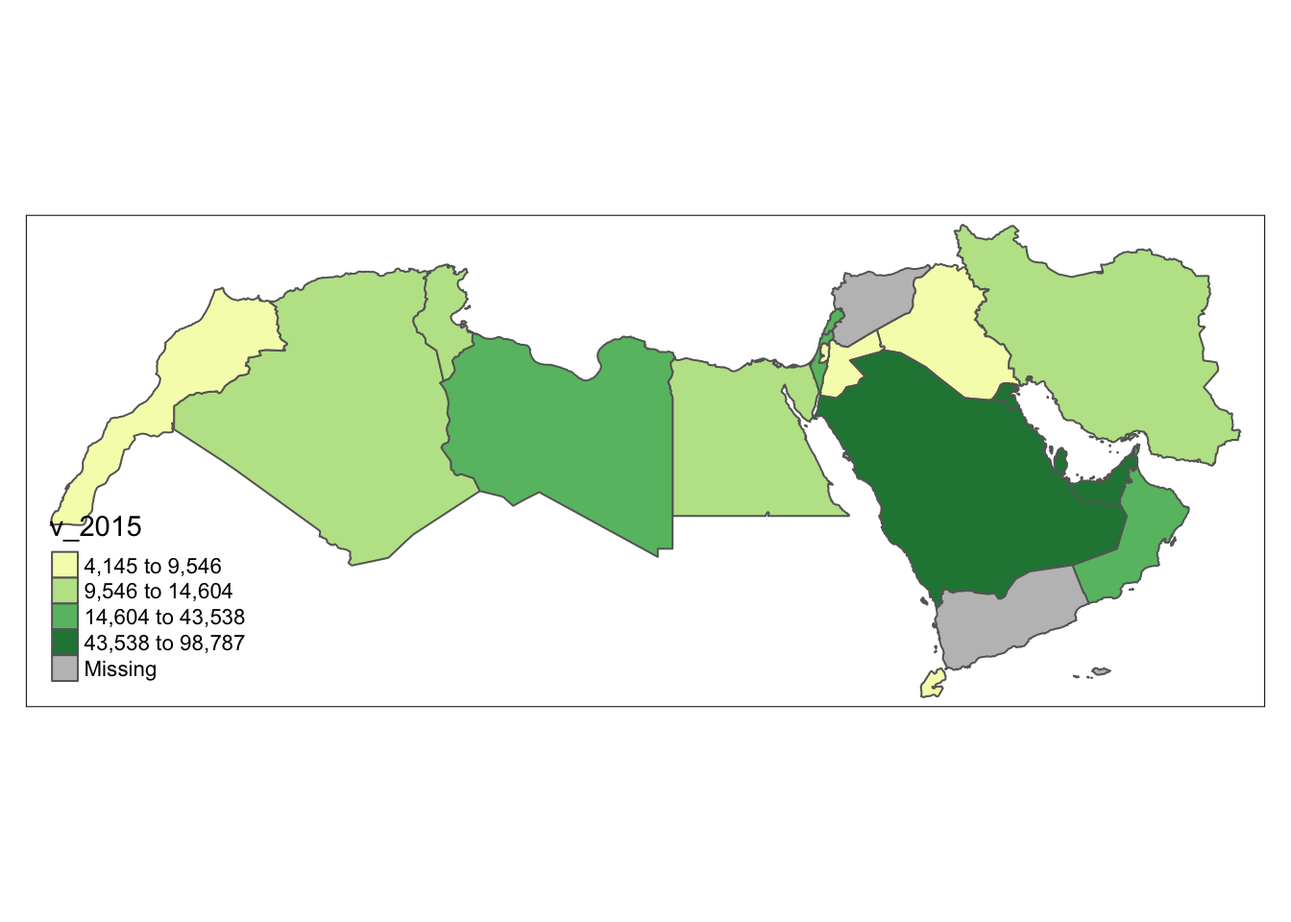
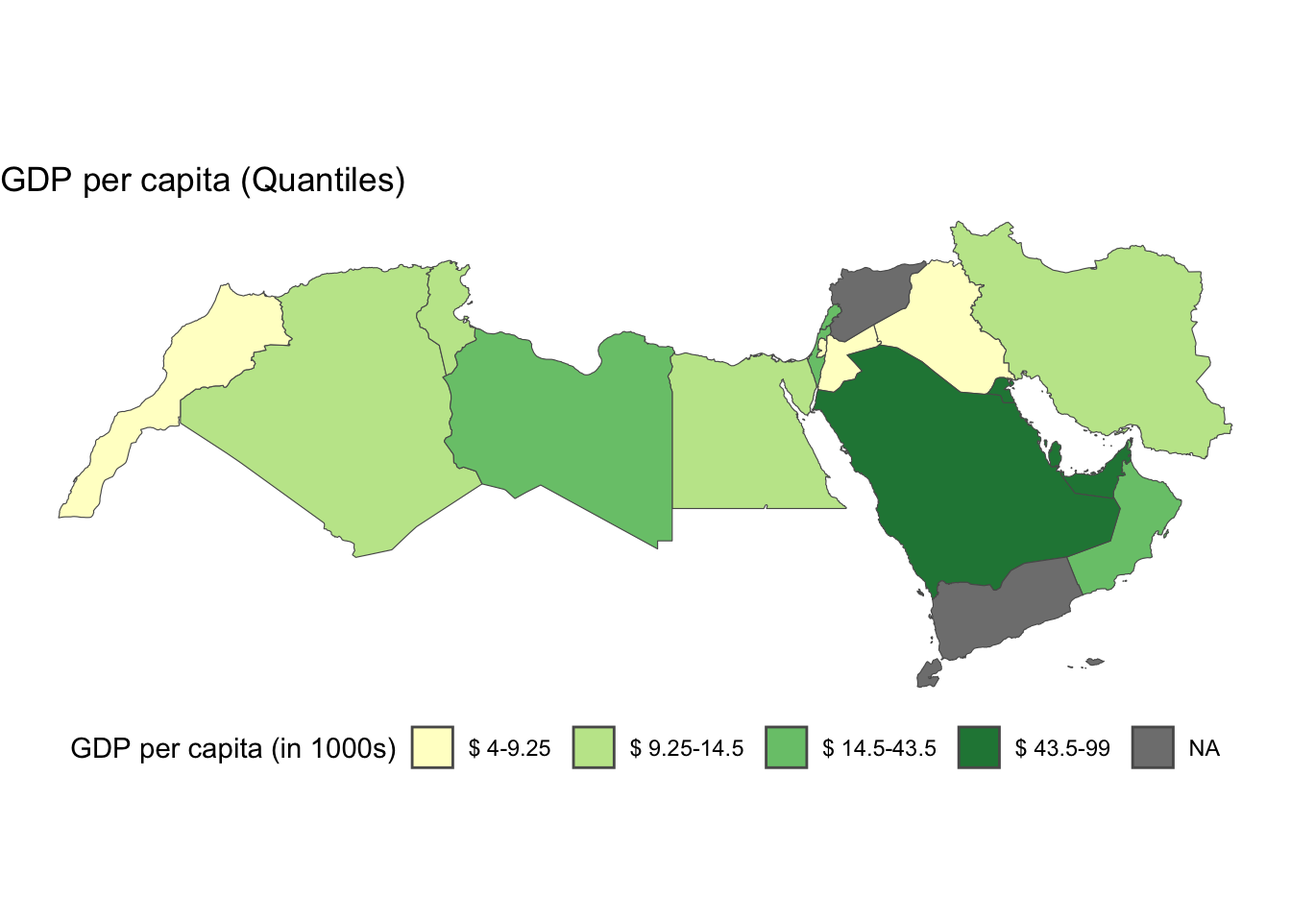
map vector updates

diff --git a/docs/mapvector_code.html b/docs/mapvector_code.html
@@ -781,48 +781,48 @@ Note
 <p>One solution to obtain a more balanced classification scheme is using quantiles. This, by definition, assigns the same amount of values to each bin: the entire series is laid out in order and break points are assigned in a way that leaves exactly the same amount of observations between each of them. This “observation-based” approach contrasts with the “value-based” method of equal intervals and, although it can obscure the magnitude of extreme values, it can be more informative in cases with skewed distributions.</p>
 <p>The code required to create the choropleth mirrors that needed above for equal intervals:</p>
 <div class="panel-tabset" data-group="data">
-<ul class="nav nav-tabs" role="tablist"><li class="nav-item" role="presentation"><a class="nav-link active" id="tabset-3-1-tab" data-bs-toggle="tab" data-bs-target="#tabset-3-1" role="tab" aria-controls="tabset-3-1" aria-selected="true"><code>ggplot</code></a></li><li class="nav-item" role="presentation"><a class="nav-link" id="tabset-3-2-tab" data-bs-toggle="tab" data-bs-target="#tabset-3-2" role="tab" aria-controls="tabset-3-2" aria-selected="false"><code>tmap</code></a></li></ul>
+<ul class="nav nav-tabs" role="tablist"><li class="nav-item" role="presentation"><a class="nav-link active" id="tabset-3-1-tab" data-bs-toggle="tab" data-bs-target="#tabset-3-1" role="tab" aria-controls="tabset-3-1" aria-selected="true"><code>tmap</code></a></li><li class="nav-item" role="presentation"><a class="nav-link" id="tabset-3-2-tab" data-bs-toggle="tab" data-bs-target="#tabset-3-2" role="tab" aria-controls="tabset-3-2" aria-selected="false"><code>ggplot</code></a></li></ul>
 <div class="tab-content" data-group="data">
 <div id="tabset-3-1" class="tab-pane active" role="tabpanel" aria-labelledby="tabset-3-1-tab">
-<p>As before, first we create the intervals, in this case quantiles.</p>
+<p>As in our previous example, the coding is a bit simpler if we use <code>tmap</code>.</p>
 <div class="cell">
-<div class="sourceCode cell-code" id="cb20"><pre class="sourceCode r code-with-copy"><code class="sourceCode r"><span id="cb20-1"><a href="#cb20-1" aria-hidden="true" tabindex="-1"></a><span class="co"># Find quantile breaks for data segmentation into four groups.</span></span>
-<span id="cb20-2"><a href="#cb20-2" aria-hidden="true" tabindex="-1"></a>qt_breaks <span class="ot">&lt;-</span> <span class="fu">classIntervals</span>(world_dev_filtered<span class="sc">$</span>v_2015bis, <span class="at">n =</span> <span class="dv">4</span>, <span class="at">style =</span> <span class="st">"quantile"</span>)</span>
-<span id="cb20-3"><a href="#cb20-3" aria-hidden="true" tabindex="-1"></a></span>
-<span id="cb20-4"><a href="#cb20-4" aria-hidden="true" tabindex="-1"></a><span class="co"># Assign the class breaks to the data</span></span>
-<span id="cb20-5"><a href="#cb20-5" aria-hidden="true" tabindex="-1"></a>world_dev_filtered<span class="sc">$</span>qt_breaks <span class="ot">&lt;-</span> <span class="fu">cut</span>(world_dev_filtered<span class="sc">$</span>v_2015bis, qt_breaks<span class="sc">$</span>brks)</span></code><button title="Copy to Clipboard" class="code-copy-button"><i class="bi"></i></button></pre></div>
-</div>
-<p>Then we map the data:</p>
-<div class="cell">
-<div class="sourceCode cell-code" id="cb21"><pre class="sourceCode r code-with-copy"><code class="sourceCode r"><span id="cb21-1"><a href="#cb21-1" aria-hidden="true" tabindex="-1"></a>num_bins <span class="ot">&lt;-</span><span class="dv">4</span></span>
-<span id="cb21-2"><a href="#cb21-2" aria-hidden="true" tabindex="-1"></a><span class="co"># Define a color palette for visualizing data.</span></span>
-<span id="cb21-3"><a href="#cb21-3" aria-hidden="true" tabindex="-1"></a>cmap <span class="ot">&lt;-</span> <span class="fu">brewer.pal</span>(num_bins, <span class="st">"YlGn"</span>)</span>
-<span id="cb21-4"><a href="#cb21-4" aria-hidden="true" tabindex="-1"></a></span>
-<span id="cb21-5"><a href="#cb21-5" aria-hidden="true" tabindex="-1"></a><span class="co"># plot</span></span>
-<span id="cb21-6"><a href="#cb21-6" aria-hidden="true" tabindex="-1"></a><span class="fu">ggplot</span>() <span class="sc">+</span></span>
-<span id="cb21-7"><a href="#cb21-7" aria-hidden="true" tabindex="-1"></a>  <span class="fu">geom_sf</span>(<span class="at">data =</span> world_dev_filtered, <span class="fu">aes</span>(<span class="at">fill =</span> qt_breaks)) <span class="sc">+</span></span>
-<span id="cb21-8"><a href="#cb21-8" aria-hidden="true" tabindex="-1"></a><span class="fu">theme_void</span>() <span class="sc">+</span> <span class="co"># remove x and y axis</span></span>
-<span id="cb21-9"><a href="#cb21-9" aria-hidden="true" tabindex="-1"></a>  <span class="fu">scale_fill_manual</span>(</span>
-<span id="cb21-10"><a href="#cb21-10" aria-hidden="true" tabindex="-1"></a>    <span class="at">values =</span> cmap,</span>
-<span id="cb21-11"><a href="#cb21-11" aria-hidden="true" tabindex="-1"></a>    <span class="at">name =</span> <span class="st">"GDP per capita (in 1000s)"</span>,  <span class="co"># Improved legend title</span></span>
-<span id="cb21-12"><a href="#cb21-12" aria-hidden="true" tabindex="-1"></a>    <span class="at">labels =</span> <span class="fu">gsub</span>(<span class="st">"[,]"</span>, <span class="st">"-"</span>, <span class="fu">paste0</span>(<span class="st">"$"</span>, <span class="fu">gsub</span>(<span class="st">"[</span><span class="sc">\\</span><span class="st">[</span><span class="sc">\\</span><span class="st">]()]"</span>, <span class="st">" "</span>, <span class="fu">levels</span>(world_dev_filtered<span class="sc">$</span>qt_breaks), <span class="at">perl =</span> <span class="cn">TRUE</span>)))) <span class="sc">+</span>  <span class="co"># Replace comma with hyphen, add dollar sign, and remove brackets/parentheses from labels </span></span>
-<span id="cb21-13"><a href="#cb21-13" aria-hidden="true" tabindex="-1"></a>  <span class="fu">labs</span>(</span>
-<span id="cb21-14"><a href="#cb21-14" aria-hidden="true" tabindex="-1"></a>    <span class="at">title =</span> <span class="st">"GDP per capita (Quantiles)"</span>,</span>
-<span id="cb21-15"><a href="#cb21-15" aria-hidden="true" tabindex="-1"></a>    <span class="at">fill =</span> <span class="cn">NULL</span>  <span class="co"># Remove the fill label</span></span>
-<span id="cb21-16"><a href="#cb21-16" aria-hidden="true" tabindex="-1"></a>  ) <span class="sc">+</span></span>
-<span id="cb21-17"><a href="#cb21-17" aria-hidden="true" tabindex="-1"></a>  <span class="fu">theme_void</span>() <span class="sc">+</span></span>
-<span id="cb21-18"><a href="#cb21-18" aria-hidden="true" tabindex="-1"></a>  <span class="fu">theme</span>(<span class="at">legend.position =</span> <span class="st">"bottom"</span>)</span></code><button title="Copy to Clipboard" class="code-copy-button"><i class="bi"></i></button></pre></div>
+<div class="sourceCode cell-code" id="cb20"><pre class="sourceCode r code-with-copy"><code class="sourceCode r"><span id="cb20-1"><a href="#cb20-1" aria-hidden="true" tabindex="-1"></a><span class="fu">tm_basemap</span>() <span class="sc">+</span></span>
+<span id="cb20-2"><a href="#cb20-2" aria-hidden="true" tabindex="-1"></a>  <span class="fu">tm_shape</span>(world_dev_filtered) <span class="sc">+</span></span>
+<span id="cb20-3"><a href="#cb20-3" aria-hidden="true" tabindex="-1"></a>  <span class="fu">tm_polygons</span>(<span class="st">"v_2015"</span>, <span class="at">palette =</span> <span class="st">"YlGn"</span>, <span class="at">id =</span> <span class="st">"WARD_NAME"</span>, <span class="at">n =</span> <span class="dv">4</span>, <span class="at">style=</span> <span class="st">"quantile"</span>)   </span></code><button title="Copy to Clipboard" class="code-copy-button"><i class="bi"></i></button></pre></div>
 <div class="cell-output-display">
-<p><img src="mapvector_code_files/figure-html/unnamed-chunk-15-1.png" class="img-fluid" width="672"></p>
+<p><img src="mapvector_code_files/figure-html/unnamed-chunk-14-1.png" class="img-fluid" width="672"></p>
 </div>
 </div>
 </div>
 <div id="tabset-3-2" class="tab-pane" role="tabpanel" aria-labelledby="tabset-3-2-tab">
-<p>As in our previous example, the coding is a bit simpler if we use <code>tmap</code>.</p>
+<p>As before, first we create the intervals, in this case quantiles.</p>
 <div class="cell">
-<div class="sourceCode cell-code" id="cb22"><pre class="sourceCode r code-with-copy"><code class="sourceCode r"><span id="cb22-1"><a href="#cb22-1" aria-hidden="true" tabindex="-1"></a><span class="fu">tm_basemap</span>() <span class="sc">+</span></span>
-<span id="cb22-2"><a href="#cb22-2" aria-hidden="true" tabindex="-1"></a>  <span class="fu">tm_shape</span>(world_dev_filtered) <span class="sc">+</span></span>
-<span id="cb22-3"><a href="#cb22-3" aria-hidden="true" tabindex="-1"></a>  <span class="fu">tm_polygons</span>(<span class="st">"v_2015"</span>, <span class="at">palette =</span> <span class="st">"YlGn"</span>, <span class="at">id =</span> <span class="st">"WARD_NAME"</span>, <span class="at">n =</span> <span class="dv">4</span>, <span class="at">style=</span> <span class="st">"quantile"</span>)   </span></code><button title="Copy to Clipboard" class="code-copy-button"><i class="bi"></i></button></pre></div>
+<div class="sourceCode cell-code" id="cb21"><pre class="sourceCode r code-with-copy"><code class="sourceCode r"><span id="cb21-1"><a href="#cb21-1" aria-hidden="true" tabindex="-1"></a><span class="co"># Find quantile breaks for data segmentation into four groups.</span></span>
+<span id="cb21-2"><a href="#cb21-2" aria-hidden="true" tabindex="-1"></a>qt_breaks <span class="ot">&lt;-</span> <span class="fu">classIntervals</span>(world_dev_filtered<span class="sc">$</span>v_2015bis, <span class="at">n =</span> <span class="dv">4</span>, <span class="at">style =</span> <span class="st">"quantile"</span>)</span>
+<span id="cb21-3"><a href="#cb21-3" aria-hidden="true" tabindex="-1"></a></span>
+<span id="cb21-4"><a href="#cb21-4" aria-hidden="true" tabindex="-1"></a><span class="co"># Assign the class breaks to the data</span></span>
+<span id="cb21-5"><a href="#cb21-5" aria-hidden="true" tabindex="-1"></a>world_dev_filtered<span class="sc">$</span>qt_breaks <span class="ot">&lt;-</span> <span class="fu">cut</span>(world_dev_filtered<span class="sc">$</span>v_2015bis, qt_breaks<span class="sc">$</span>brks)</span></code><button title="Copy to Clipboard" class="code-copy-button"><i class="bi"></i></button></pre></div>
+</div>
+<p>Then we map the data:</p>
+<div class="cell">
+<div class="sourceCode cell-code" id="cb22"><pre class="sourceCode r code-with-copy"><code class="sourceCode r"><span id="cb22-1"><a href="#cb22-1" aria-hidden="true" tabindex="-1"></a>num_bins <span class="ot">&lt;-</span><span class="dv">4</span></span>
+<span id="cb22-2"><a href="#cb22-2" aria-hidden="true" tabindex="-1"></a><span class="co"># Define a color palette for visualizing data.</span></span>
+<span id="cb22-3"><a href="#cb22-3" aria-hidden="true" tabindex="-1"></a>cmap <span class="ot">&lt;-</span> <span class="fu">brewer.pal</span>(num_bins, <span class="st">"YlGn"</span>)</span>
+<span id="cb22-4"><a href="#cb22-4" aria-hidden="true" tabindex="-1"></a></span>
+<span id="cb22-5"><a href="#cb22-5" aria-hidden="true" tabindex="-1"></a><span class="co"># plot</span></span>
+<span id="cb22-6"><a href="#cb22-6" aria-hidden="true" tabindex="-1"></a><span class="fu">ggplot</span>() <span class="sc">+</span></span>
+<span id="cb22-7"><a href="#cb22-7" aria-hidden="true" tabindex="-1"></a>  <span class="fu">geom_sf</span>(<span class="at">data =</span> world_dev_filtered, <span class="fu">aes</span>(<span class="at">fill =</span> qt_breaks)) <span class="sc">+</span></span>
+<span id="cb22-8"><a href="#cb22-8" aria-hidden="true" tabindex="-1"></a><span class="fu">theme_void</span>() <span class="sc">+</span> <span class="co"># remove x and y axis</span></span>
+<span id="cb22-9"><a href="#cb22-9" aria-hidden="true" tabindex="-1"></a>  <span class="fu">scale_fill_manual</span>(</span>
+<span id="cb22-10"><a href="#cb22-10" aria-hidden="true" tabindex="-1"></a>    <span class="at">values =</span> cmap,</span>
+<span id="cb22-11"><a href="#cb22-11" aria-hidden="true" tabindex="-1"></a>    <span class="at">name =</span> <span class="st">"GDP per capita (in 1000s)"</span>,  <span class="co"># Improved legend title</span></span>
+<span id="cb22-12"><a href="#cb22-12" aria-hidden="true" tabindex="-1"></a>    <span class="at">labels =</span> <span class="fu">gsub</span>(<span class="st">"[,]"</span>, <span class="st">"-"</span>, <span class="fu">paste0</span>(<span class="st">"$"</span>, <span class="fu">gsub</span>(<span class="st">"[</span><span class="sc">\\</span><span class="st">[</span><span class="sc">\\</span><span class="st">]()]"</span>, <span class="st">" "</span>, <span class="fu">levels</span>(world_dev_filtered<span class="sc">$</span>qt_breaks), <span class="at">perl =</span> <span class="cn">TRUE</span>)))) <span class="sc">+</span>  <span class="co"># Replace comma with hyphen, add dollar sign, and remove brackets/parentheses from labels </span></span>
+<span id="cb22-13"><a href="#cb22-13" aria-hidden="true" tabindex="-1"></a>  <span class="fu">labs</span>(</span>
+<span id="cb22-14"><a href="#cb22-14" aria-hidden="true" tabindex="-1"></a>    <span class="at">title =</span> <span class="st">"GDP per capita (Quantiles)"</span>,</span>
+<span id="cb22-15"><a href="#cb22-15" aria-hidden="true" tabindex="-1"></a>    <span class="at">fill =</span> <span class="cn">NULL</span>  <span class="co"># Remove the fill label</span></span>
+<span id="cb22-16"><a href="#cb22-16" aria-hidden="true" tabindex="-1"></a>  ) <span class="sc">+</span></span>
+<span id="cb22-17"><a href="#cb22-17" aria-hidden="true" tabindex="-1"></a>  <span class="fu">theme_void</span>() <span class="sc">+</span></span>
+<span id="cb22-18"><a href="#cb22-18" aria-hidden="true" tabindex="-1"></a>  <span class="fu">theme</span>(<span class="at">legend.position =</span> <span class="st">"bottom"</span>)</span></code><button title="Copy to Clipboard" class="code-copy-button"><i class="bi"></i></button></pre></div>
 <div class="cell-output-display">
 <p><img src="mapvector_code_files/figure-html/unnamed-chunk-16-1.png" class="img-fluid" width="672"></p>
 </div>
@@ -859,48 +859,48 @@ Note
 <h2 class="anchored" data-anchor-id="fisher-jenks">Fisher-Jenks</h2>
 <p>Equal interval and quantiles are only two examples of very many classification schemes to encode values into colors. As an example of a more sophisticated one, let us create a Fisher-Jenks choropleth:</p>
 <div class="panel-tabset" data-group="data">
-<ul class="nav nav-tabs" role="tablist"><li class="nav-item" role="presentation"><a class="nav-link active" id="tabset-4-1-tab" data-bs-toggle="tab" data-bs-target="#tabset-4-1" role="tab" aria-controls="tabset-4-1" aria-selected="true"><code>ggplot</code></a></li><li class="nav-item" role="presentation"><a class="nav-link" id="tabset-4-2-tab" data-bs-toggle="tab" data-bs-target="#tabset-4-2" role="tab" aria-controls="tabset-4-2" aria-selected="false"><code>tmap</code></a></li></ul>
+<ul class="nav nav-tabs" role="tablist"><li class="nav-item" role="presentation"><a class="nav-link active" id="tabset-4-1-tab" data-bs-toggle="tab" data-bs-target="#tabset-4-1" role="tab" aria-controls="tabset-4-1" aria-selected="true"><code>tmap</code></a></li><li class="nav-item" role="presentation"><a class="nav-link" id="tabset-4-2-tab" data-bs-toggle="tab" data-bs-target="#tabset-4-2" role="tab" aria-controls="tabset-4-2" aria-selected="false"><code>ggplot</code></a></li></ul>
 <div class="tab-content" data-group="data">
 <div id="tabset-4-1" class="tab-pane active" role="tabpanel" aria-labelledby="tabset-4-1-tab">
-<p>As before, first we create the intervals, in this case fisher jenks</p>
+<p>As in our previous example, the coding is a bit simpler if we use <code>tmap</code>.</p>
 <div class="cell">
-<div class="sourceCode cell-code" id="cb24"><pre class="sourceCode r code-with-copy"><code class="sourceCode r"><span id="cb24-1"><a href="#cb24-1" aria-hidden="true" tabindex="-1"></a><span class="co"># Find fisher breaks for data segmentation into 5 groups.</span></span>
-<span id="cb24-2"><a href="#cb24-2" aria-hidden="true" tabindex="-1"></a>fish_breaks <span class="ot">&lt;-</span> <span class="fu">classIntervals</span>(world_dev_filtered<span class="sc">$</span>v_2015bis, <span class="at">n =</span> <span class="dv">4</span>, <span class="at">style =</span> <span class="st">"fisher"</span>)</span>
-<span id="cb24-3"><a href="#cb24-3" aria-hidden="true" tabindex="-1"></a></span>
-<span id="cb24-4"><a href="#cb24-4" aria-hidden="true" tabindex="-1"></a><span class="co"># Assign the class breaks to the data</span></span>
-<span id="cb24-5"><a href="#cb24-5" aria-hidden="true" tabindex="-1"></a>world_dev_filtered<span class="sc">$</span>fish_breaks <span class="ot">&lt;-</span> <span class="fu">cut</span>(world_dev_filtered<span class="sc">$</span>v_2015bis, fish_breaks<span class="sc">$</span>brks)</span></code><button title="Copy to Clipboard" class="code-copy-button"><i class="bi"></i></button></pre></div>
-</div>
-<p>Then we map the data:</p>
-<div class="cell">
-<div class="sourceCode cell-code" id="cb25"><pre class="sourceCode r code-with-copy"><code class="sourceCode r"><span id="cb25-1"><a href="#cb25-1" aria-hidden="true" tabindex="-1"></a>num_bins <span class="ot">&lt;-</span><span class="dv">4</span></span>
-<span id="cb25-2"><a href="#cb25-2" aria-hidden="true" tabindex="-1"></a><span class="co"># Define a color palette for visualizing data.</span></span>
-<span id="cb25-3"><a href="#cb25-3" aria-hidden="true" tabindex="-1"></a>cmap <span class="ot">&lt;-</span> <span class="fu">brewer.pal</span>(num_bins, <span class="st">"YlGn"</span>)</span>
-<span id="cb25-4"><a href="#cb25-4" aria-hidden="true" tabindex="-1"></a></span>
-<span id="cb25-5"><a href="#cb25-5" aria-hidden="true" tabindex="-1"></a><span class="co"># plot</span></span>
-<span id="cb25-6"><a href="#cb25-6" aria-hidden="true" tabindex="-1"></a><span class="fu">ggplot</span>() <span class="sc">+</span></span>
-<span id="cb25-7"><a href="#cb25-7" aria-hidden="true" tabindex="-1"></a>  <span class="fu">geom_sf</span>(<span class="at">data =</span> world_dev_filtered, <span class="fu">aes</span>(<span class="at">fill =</span> fish_breaks)) <span class="sc">+</span></span>
-<span id="cb25-8"><a href="#cb25-8" aria-hidden="true" tabindex="-1"></a><span class="fu">theme_void</span>() <span class="sc">+</span> <span class="co"># remove x and y axis</span></span>
-<span id="cb25-9"><a href="#cb25-9" aria-hidden="true" tabindex="-1"></a>  <span class="fu">scale_fill_manual</span>(</span>
-<span id="cb25-10"><a href="#cb25-10" aria-hidden="true" tabindex="-1"></a>    <span class="at">values =</span> cmap,</span>
-<span id="cb25-11"><a href="#cb25-11" aria-hidden="true" tabindex="-1"></a>    <span class="at">name =</span> <span class="st">"GDP per capita (in 1000s)"</span>,  <span class="co"># Improved legend title</span></span>
-<span id="cb25-12"><a href="#cb25-12" aria-hidden="true" tabindex="-1"></a>    <span class="at">labels =</span> <span class="fu">gsub</span>(<span class="st">"[,]"</span>, <span class="st">"-"</span>, <span class="fu">paste0</span>(<span class="st">"$"</span>, <span class="fu">gsub</span>(<span class="st">"[</span><span class="sc">\\</span><span class="st">[</span><span class="sc">\\</span><span class="st">]()]"</span>, <span class="st">" "</span>, <span class="fu">levels</span>(world_dev_filtered<span class="sc">$</span>fish_breaks), <span class="at">perl =</span> <span class="cn">TRUE</span>)))) <span class="sc">+</span>  <span class="co"># Replace comma with hyphen, add dollar sign, and remove brackets/parentheses from labels </span></span>
-<span id="cb25-13"><a href="#cb25-13" aria-hidden="true" tabindex="-1"></a>  <span class="fu">labs</span>(</span>
-<span id="cb25-14"><a href="#cb25-14" aria-hidden="true" tabindex="-1"></a>    <span class="at">title =</span> <span class="st">"GDP per capita (Quantiles)"</span>,</span>
-<span id="cb25-15"><a href="#cb25-15" aria-hidden="true" tabindex="-1"></a>    <span class="at">fill =</span> <span class="cn">NULL</span>  <span class="co"># Remove the fill label</span></span>
-<span id="cb25-16"><a href="#cb25-16" aria-hidden="true" tabindex="-1"></a>  ) <span class="sc">+</span></span>
-<span id="cb25-17"><a href="#cb25-17" aria-hidden="true" tabindex="-1"></a>  <span class="fu">theme_void</span>() <span class="sc">+</span></span>
-<span id="cb25-18"><a href="#cb25-18" aria-hidden="true" tabindex="-1"></a>  <span class="fu">theme</span>(<span class="at">legend.position =</span> <span class="st">"bottom"</span>)</span></code><button title="Copy to Clipboard" class="code-copy-button"><i class="bi"></i></button></pre></div>
+<div class="sourceCode cell-code" id="cb24"><pre class="sourceCode r code-with-copy"><code class="sourceCode r"><span id="cb24-1"><a href="#cb24-1" aria-hidden="true" tabindex="-1"></a><span class="fu">tm_basemap</span>() <span class="sc">+</span></span>
+<span id="cb24-2"><a href="#cb24-2" aria-hidden="true" tabindex="-1"></a>  <span class="fu">tm_shape</span>(world_dev_filtered) <span class="sc">+</span></span>
+<span id="cb24-3"><a href="#cb24-3" aria-hidden="true" tabindex="-1"></a>  <span class="fu">tm_polygons</span>(<span class="st">"v_2015"</span>, <span class="at">palette =</span> <span class="st">"YlGn"</span>, <span class="at">id =</span> <span class="st">"WARD_NAME"</span>, <span class="at">n =</span> <span class="dv">4</span>, <span class="at">style=</span> <span class="st">"fisher"</span>)   </span></code><button title="Copy to Clipboard" class="code-copy-button"><i class="bi"></i></button></pre></div>
 <div class="cell-output-display">
-<p><img src="mapvector_code_files/figure-html/unnamed-chunk-19-1.png" class="img-fluid" width="672"></p>
+<p><img src="mapvector_code_files/figure-html/unnamed-chunk-18-1.png" class="img-fluid" width="672"></p>
 </div>
 </div>
 </div>
 <div id="tabset-4-2" class="tab-pane" role="tabpanel" aria-labelledby="tabset-4-2-tab">
-<p>As in our previous example, the coding is a bit simpler if we use <code>tmap</code>.</p>
+<p>As before, first we create the intervals, in this case fisher jenks</p>
 <div class="cell">
-<div class="sourceCode cell-code" id="cb26"><pre class="sourceCode r code-with-copy"><code class="sourceCode r"><span id="cb26-1"><a href="#cb26-1" aria-hidden="true" tabindex="-1"></a><span class="fu">tm_basemap</span>() <span class="sc">+</span></span>
-<span id="cb26-2"><a href="#cb26-2" aria-hidden="true" tabindex="-1"></a>  <span class="fu">tm_shape</span>(world_dev_filtered) <span class="sc">+</span></span>
-<span id="cb26-3"><a href="#cb26-3" aria-hidden="true" tabindex="-1"></a>  <span class="fu">tm_polygons</span>(<span class="st">"v_2015"</span>, <span class="at">palette =</span> <span class="st">"YlGn"</span>, <span class="at">id =</span> <span class="st">"WARD_NAME"</span>, <span class="at">n =</span> <span class="dv">4</span>, <span class="at">style=</span> <span class="st">"fisher"</span>)   </span></code><button title="Copy to Clipboard" class="code-copy-button"><i class="bi"></i></button></pre></div>
+<div class="sourceCode cell-code" id="cb25"><pre class="sourceCode r code-with-copy"><code class="sourceCode r"><span id="cb25-1"><a href="#cb25-1" aria-hidden="true" tabindex="-1"></a><span class="co"># Find fisher breaks for data segmentation into 5 groups.</span></span>
+<span id="cb25-2"><a href="#cb25-2" aria-hidden="true" tabindex="-1"></a>fish_breaks <span class="ot">&lt;-</span> <span class="fu">classIntervals</span>(world_dev_filtered<span class="sc">$</span>v_2015bis, <span class="at">n =</span> <span class="dv">4</span>, <span class="at">style =</span> <span class="st">"fisher"</span>)</span>
+<span id="cb25-3"><a href="#cb25-3" aria-hidden="true" tabindex="-1"></a></span>
+<span id="cb25-4"><a href="#cb25-4" aria-hidden="true" tabindex="-1"></a><span class="co"># Assign the class breaks to the data</span></span>
+<span id="cb25-5"><a href="#cb25-5" aria-hidden="true" tabindex="-1"></a>world_dev_filtered<span class="sc">$</span>fish_breaks <span class="ot">&lt;-</span> <span class="fu">cut</span>(world_dev_filtered<span class="sc">$</span>v_2015bis, fish_breaks<span class="sc">$</span>brks)</span></code><button title="Copy to Clipboard" class="code-copy-button"><i class="bi"></i></button></pre></div>
+</div>
+<p>Then we map the data:</p>
+<div class="cell">
+<div class="sourceCode cell-code" id="cb26"><pre class="sourceCode r code-with-copy"><code class="sourceCode r"><span id="cb26-1"><a href="#cb26-1" aria-hidden="true" tabindex="-1"></a>num_bins <span class="ot">&lt;-</span><span class="dv">4</span></span>
+<span id="cb26-2"><a href="#cb26-2" aria-hidden="true" tabindex="-1"></a><span class="co"># Define a color palette for visualizing data.</span></span>
+<span id="cb26-3"><a href="#cb26-3" aria-hidden="true" tabindex="-1"></a>cmap <span class="ot">&lt;-</span> <span class="fu">brewer.pal</span>(num_bins, <span class="st">"YlGn"</span>)</span>
+<span id="cb26-4"><a href="#cb26-4" aria-hidden="true" tabindex="-1"></a></span>
+<span id="cb26-5"><a href="#cb26-5" aria-hidden="true" tabindex="-1"></a><span class="co"># plot</span></span>
+<span id="cb26-6"><a href="#cb26-6" aria-hidden="true" tabindex="-1"></a><span class="fu">ggplot</span>() <span class="sc">+</span></span>
+<span id="cb26-7"><a href="#cb26-7" aria-hidden="true" tabindex="-1"></a>  <span class="fu">geom_sf</span>(<span class="at">data =</span> world_dev_filtered, <span class="fu">aes</span>(<span class="at">fill =</span> fish_breaks)) <span class="sc">+</span></span>
+<span id="cb26-8"><a href="#cb26-8" aria-hidden="true" tabindex="-1"></a><span class="fu">theme_void</span>() <span class="sc">+</span> <span class="co"># remove x and y axis</span></span>
+<span id="cb26-9"><a href="#cb26-9" aria-hidden="true" tabindex="-1"></a>  <span class="fu">scale_fill_manual</span>(</span>
+<span id="cb26-10"><a href="#cb26-10" aria-hidden="true" tabindex="-1"></a>    <span class="at">values =</span> cmap,</span>
+<span id="cb26-11"><a href="#cb26-11" aria-hidden="true" tabindex="-1"></a>    <span class="at">name =</span> <span class="st">"GDP per capita (in 1000s)"</span>,  <span class="co"># Improved legend title</span></span>
+<span id="cb26-12"><a href="#cb26-12" aria-hidden="true" tabindex="-1"></a>    <span class="at">labels =</span> <span class="fu">gsub</span>(<span class="st">"[,]"</span>, <span class="st">"-"</span>, <span class="fu">paste0</span>(<span class="st">"$"</span>, <span class="fu">gsub</span>(<span class="st">"[</span><span class="sc">\\</span><span class="st">[</span><span class="sc">\\</span><span class="st">]()]"</span>, <span class="st">" "</span>, <span class="fu">levels</span>(world_dev_filtered<span class="sc">$</span>fish_breaks), <span class="at">perl =</span> <span class="cn">TRUE</span>)))) <span class="sc">+</span>  <span class="co"># Replace comma with hyphen, add dollar sign, and remove brackets/parentheses from labels </span></span>
+<span id="cb26-13"><a href="#cb26-13" aria-hidden="true" tabindex="-1"></a>  <span class="fu">labs</span>(</span>
+<span id="cb26-14"><a href="#cb26-14" aria-hidden="true" tabindex="-1"></a>    <span class="at">title =</span> <span class="st">"GDP per capita (Quantiles)"</span>,</span>
+<span id="cb26-15"><a href="#cb26-15" aria-hidden="true" tabindex="-1"></a>    <span class="at">fill =</span> <span class="cn">NULL</span>  <span class="co"># Remove the fill label</span></span>
+<span id="cb26-16"><a href="#cb26-16" aria-hidden="true" tabindex="-1"></a>  ) <span class="sc">+</span></span>
+<span id="cb26-17"><a href="#cb26-17" aria-hidden="true" tabindex="-1"></a>  <span class="fu">theme_void</span>() <span class="sc">+</span></span>
+<span id="cb26-18"><a href="#cb26-18" aria-hidden="true" tabindex="-1"></a>  <span class="fu">theme</span>(<span class="at">legend.position =</span> <span class="st">"bottom"</span>)</span></code><button title="Copy to Clipboard" class="code-copy-button"><i class="bi"></i></button></pre></div>
 <div class="cell-output-display">
 <p><img src="mapvector_code_files/figure-html/unnamed-chunk-20-1.png" class="img-fluid" width="672"></p>
 </div>

diff --git a/docs/mapvectorDIY.html b/docs/mapvectorDIY.html
@@ -471,7 +471,7 @@ Important
 </div>
 <div class="callout-body-container callout-body">
 <p>If you haven’t already, you will need a username and password to download the data. Create it for free at:</p>
-<p><a href="https://data.cdrc.ac.uk/user/register">https://data.cdrc.ac.uk/user/register</a></p>
+<p><a href="https://data.cdrc.ac.uk/user/register" class="uri">https://data.cdrc.ac.uk/user/register</a></p>
 <p>Then <a href="https://data.cdrc.ac.uk/system/files/Access_to_Healthy_Assets_and_Hazards_AHAH/Access_to_Healthy_Assets_and_Hazards_AHAH_E08000012.zip">download</a> the Liverpool AHAH GeoData pack.</p>
 </div>
 </div>
@@ -510,7 +510,7 @@ Important
 <h3 class="anchored" data-anchor-id="task-iii-zoom-maps">Task III: Zoom maps</h3>
 <p>Generate the following maps:</p>
 <ul>
-<li><p>Zoom of the city centre of Liverpool with he same color for every LSOA</p></li>
+<li><p>Zoom of the city centre of Liverpool with the same color for every LSOA</p></li>
 <li><p>Quantile map of AHAH for all of Liverpool, zoomed into north of the city centre</p></li>
 <li><p>Zoom to north of the city centre with a quantile map of AHAH for the section only</p></li>
 </ul>
